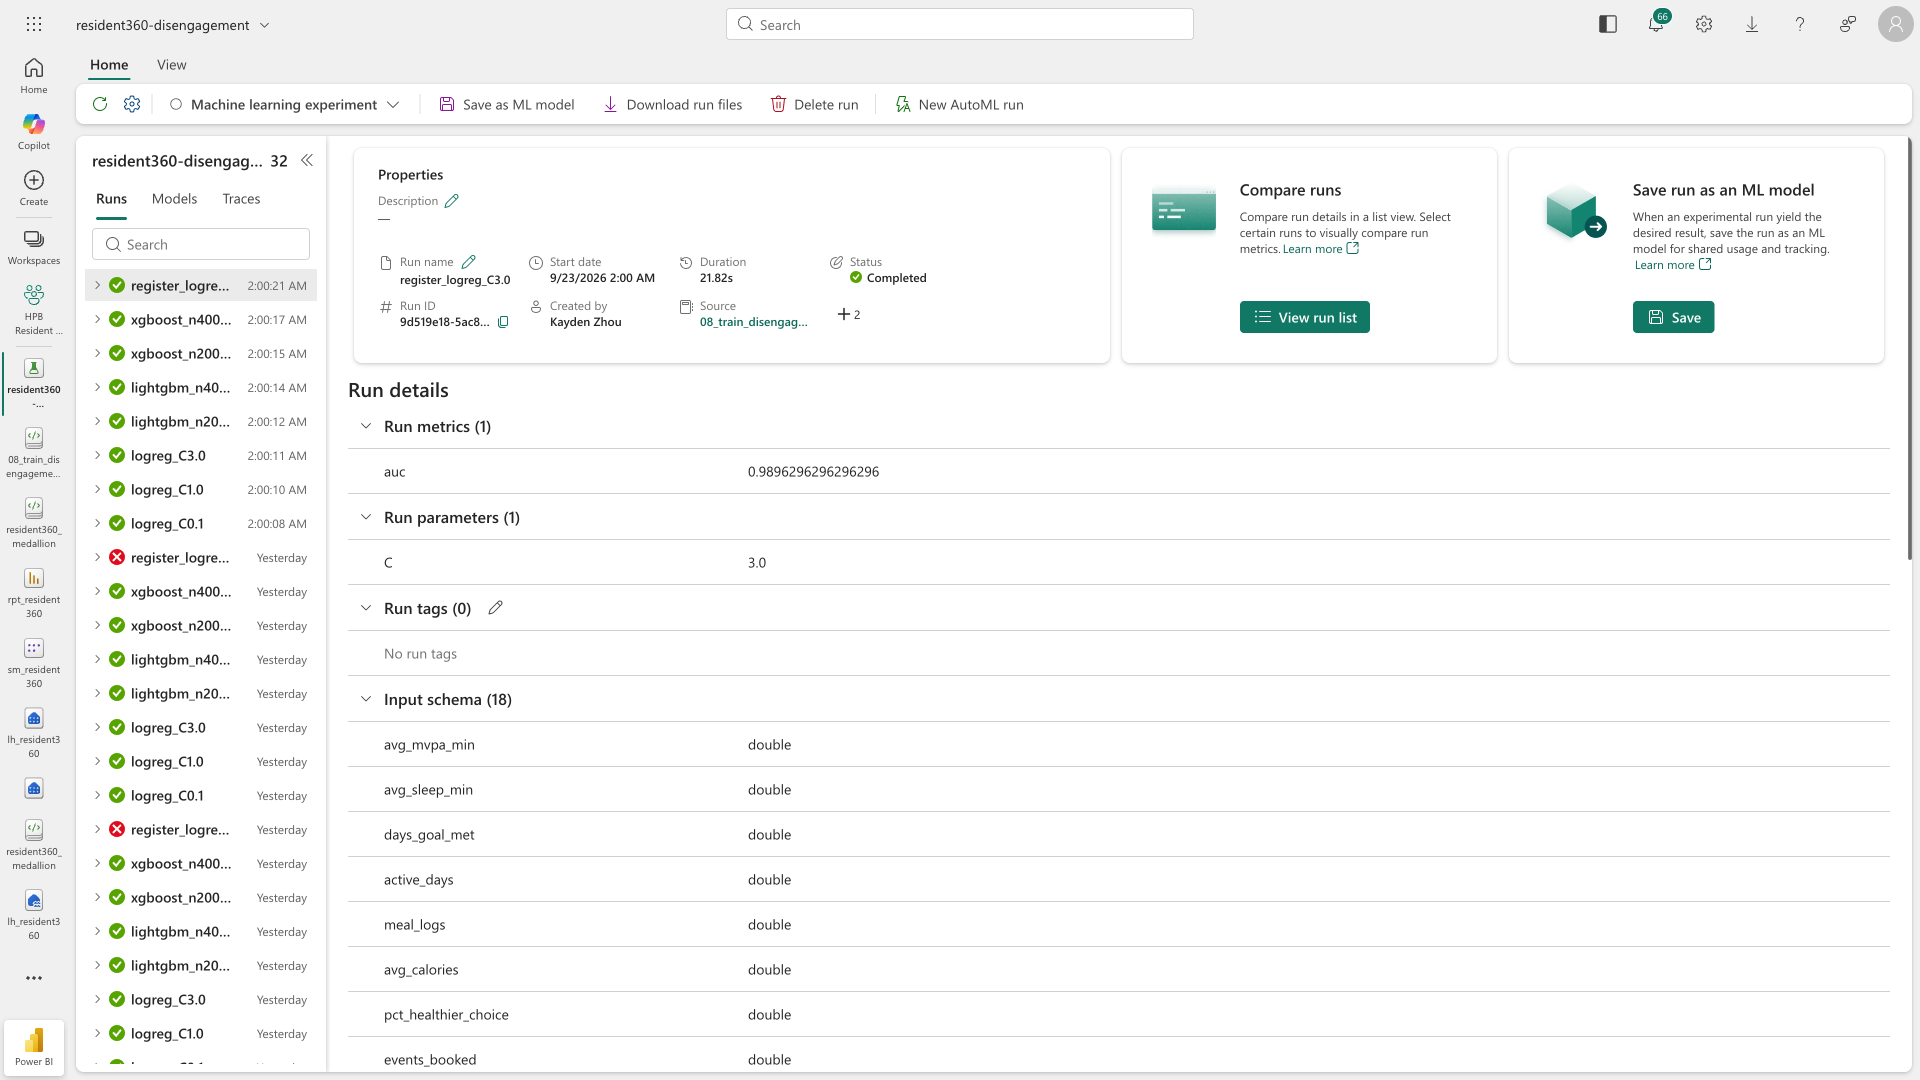
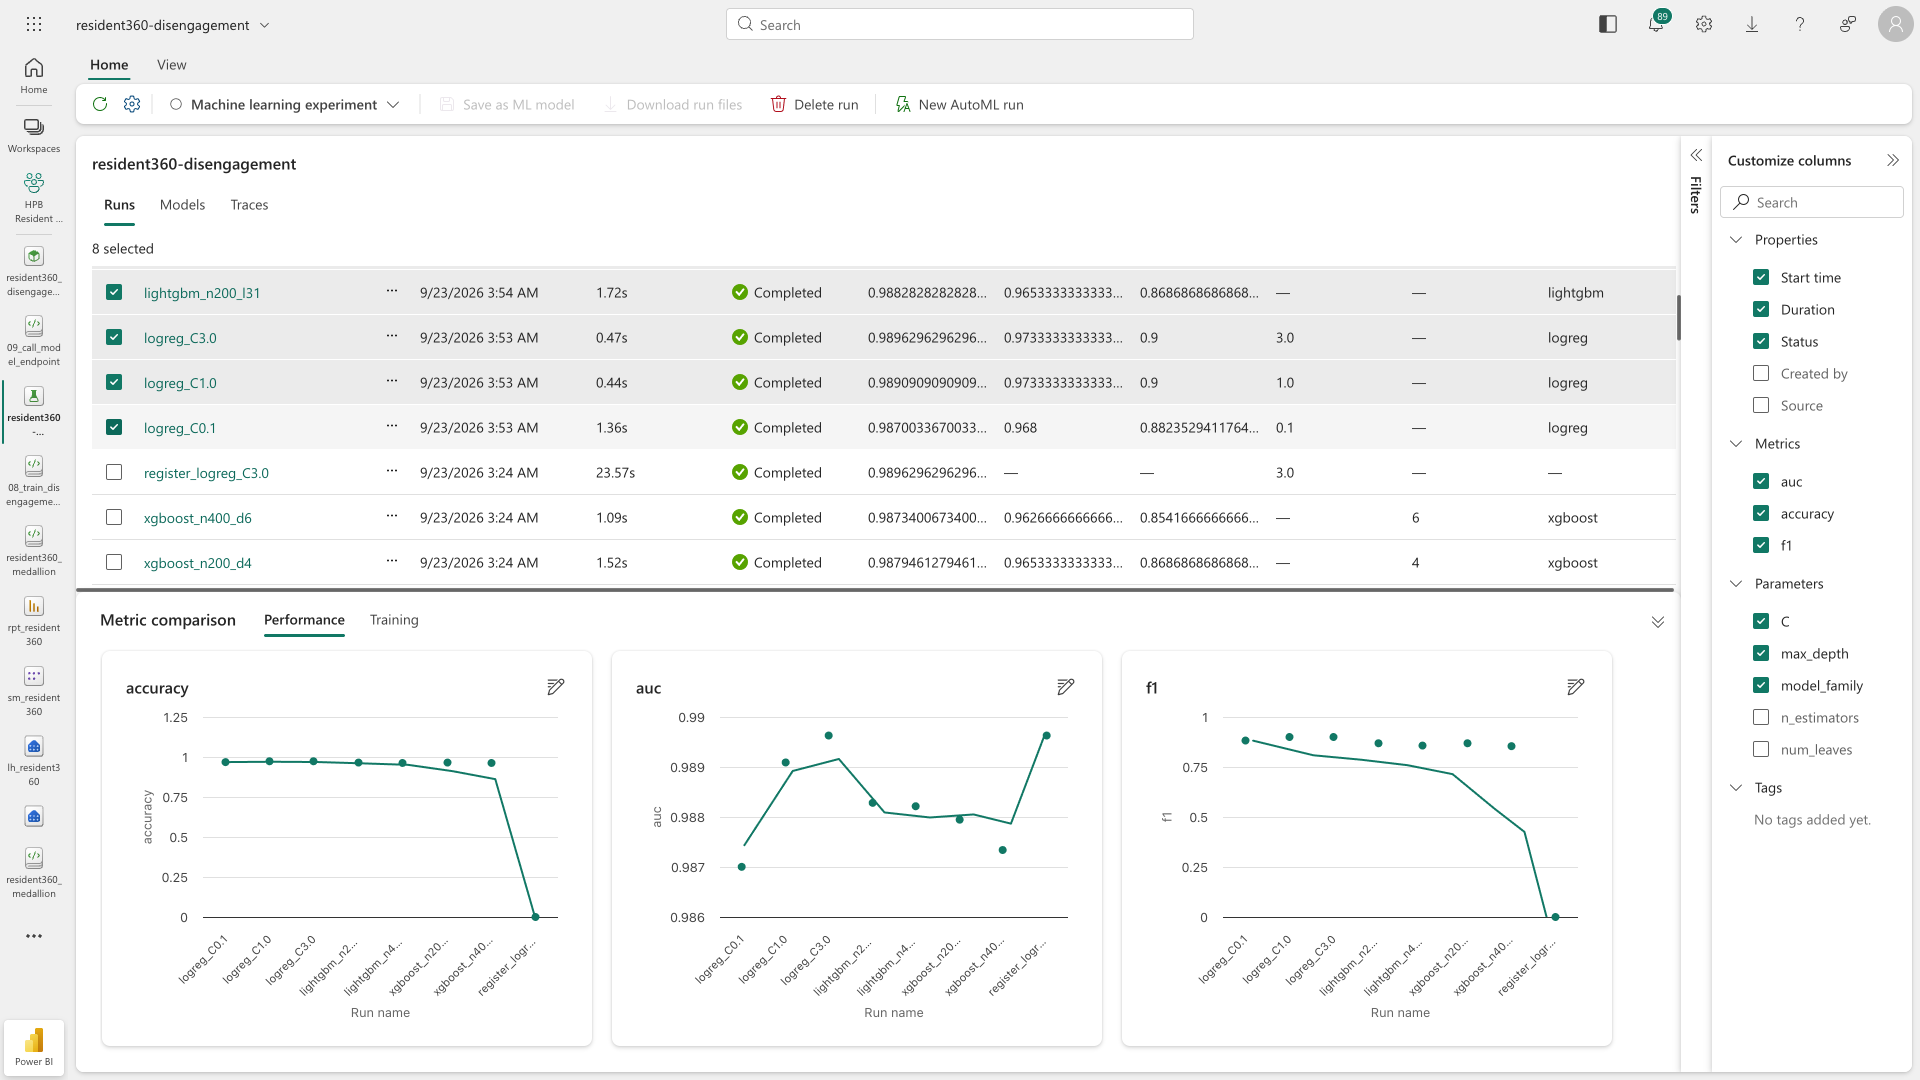
docs(lab3): Task 2 has no Compare button - say where to actually click
A facilitator opened the experiment, read "Select the runs -> Compare", and
had nothing to click. Correctly so: the experiment opens in DETAILS view,
which shows one run at a time and has no Compare control anywhere. The
comparison lives in LIST view, and it appears on its own once two or more
runs are ticked - there is no Compare button at any point.

Rewritten to click level: open the experiment, switch with View run list (or
View -> List), tick two or more runs, read the Metric comparison panel that
appears along the bottom. Also notes the Customize columns pane, and explains
why register_logreg_C3.0 shows an auc but no accuracy or f1 - it is the
registration run from Section 5, not a training run.

Adds an interim screenshot of the Details view showing the View run list
button, because the previous single image showed the destination and not the
route. It is cropped to the Compare runs card: the full frame includes a run
list carrying 72 runs from repeated test runs, where a participant has 8.

The List-view screenshot is recaptured with exactly the eight runs a
participant will have, rather than the header checkbox which selected all 72
and turned the comparison charts into an unreadable sawtooth.

Copilot-Session: 85c177c5-2f1b-410d-88d1-68692b45b3ee

diff --git a/lab3-datascience-ml/README.md b/lab3-datascience-ml/README.md
@@ -83,10 +83,34 @@ flowchart LR
 > **LightGBM 4.3.0**, **XGBoost 2.0.3**.
 
 ### Task 2 — Compare runs in the experiment
-1. Workspace → open **Experiments → `resident360-disengagement`**.
-2. Select the runs → **Compare** → sort by **auc**. See how the model families and hyperparameters stack up.
 
-![Experiment run comparison — all runs selected, with accuracy / auc / f1 charts across the model families](../docs/images/lab3/lab3-02-experiment.png)
+1. In your workspace list, click **`resident360-disengagement`** (item type **Experiment**).
+
+   It opens in **Details** view, showing one run at a time. **There is no "Compare" button** — the
+   comparison lives in the *list* view.
+
+   ![The experiment's Details view: the Compare runs card with its View run list button.](../docs/images/lab3/lab3-02a-run-list.png)
+
+2. Switch to the list: click **View run list** on the **Compare runs** card (above), or use the ribbon
+   **View → List**.
+
+   You now get one row per run, with **auc**, **accuracy** and **f1** as sortable columns. Click the
+   **auc** column header to rank them.
+
+3. **Tick the checkbox on two or more runs.** The **Metric comparison** panel along the bottom fills in
+   as soon as the second one is selected — it has **Performance** and **Training** tabs. Until then it
+   just says *"Select runs to compare their metrics"*. Ticking all of them is the interesting view: the
+   three model families side by side.
+
+   *(The **Customize columns** pane on the right toggles which metrics and parameters are shown —
+   `C`, `max_depth`, `n_estimators`, `num_leaves` and so on, so you can see which hyperparameter moved
+   which metric.)*
+
+> **Why does `register_logreg_C3.0` have an `auc` but no `accuracy` or `f1`?** That run is the
+> *registration* step from Section 5 of the notebook, not a training run — it logs the winning model,
+> not a fresh evaluation. The seven runs below it are the trained ones.
+
+![The experiment's List view with all eight runs ticked: auc / accuracy / f1 columns above, and the Metric comparison charts filled in below.](../docs/images/lab3/lab3-02-experiment.png)
 
 > **Fun fact:** MLflow is the same open-source tracking you may use in Databricks — it works natively in Fabric,
 > no setup required.
